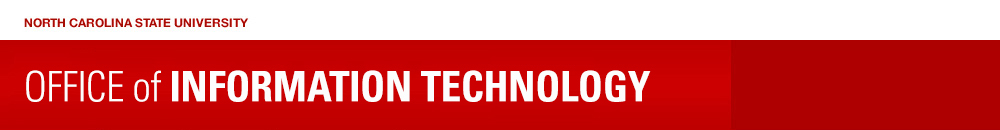
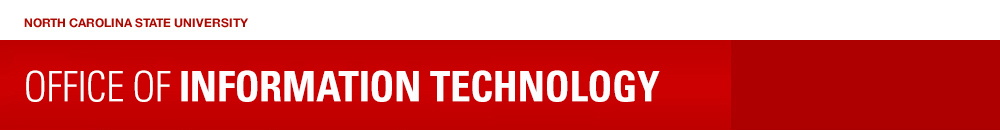
updated sidebar to new red blocks; changed footer link menu setup; sidebar fixes; header homepage link added; thats it for now, yo

Changed region(s): [[0.124, 0.5231, 0.682, 0.8]]

diff --git a/css/global.css b/css/global.css
@@ -100,34 +100,123 @@ div.audience #menu {background:#333; border-bottom:1px solid #fff;border-top:1px
 #subNav ul li a {color:#383838;}
 
 
-/* SIDEBAR */
-aside {display:inline;float:right;margin:0;padding:4px 4px 0 4px;width:250px; background-color:#e5e3d6; }
-aside#sidebar .widget {margin:0 0 4px; padding:0; background:#67849C;}
-aside#sidebar .widget .widgettitle {
-	display:block; padding:12px 4px 12px 20px; background:#556677;text-transform:uppercase; font-weight:bold; color:#fff;
-	background-image: url(../img/bullet_nav_active.gif);
-	background-position:10px 1.15em;
-	background-repeat:no-repeat no-repeat;}
+/* NEW SIDEBAR */
+aside {display:inline;float:right;margin:0;padding:4px 4px 0 4px;width:250px;  }
+aside#sidebar {
+  display:block;
+  float:right;
+  margin-top:38px;
+  overflow:hidden;
+  width:248px;
+  color:#000;
+}
+
+aside#sidebar a {color:#c00;}
+
+aside#sidebar .widgettitle {
+  background-color:#CC0000;
+  background-image:url(../img/sidebar_header_cut.png);
+  background-position:100% 100%;
+  background-repeat:no-repeat no-repeat;
+  color:#FFFFFF;
+  display:inline-block;
+  font-size:1.2em;
+  letter-spacing:1px;
+  padding:5px 40px 5px 21px;
+  text-transform:uppercase;
+  width:auto;
+}
+
+aside#sidebar .widget ul {
+  background-image:url(../img/sidebar-border.png);
+  background-position:0 50%;
+  background-repeat:no-repeat repeat;
+  border-top-color:#FF9897;
+  border-top-style:solid;
+  border-top-width:1px;
+  padding:20px 20px 0 2px;
+}
+
+aside#sidebar .widget {
+  background-image:url(../img/sidebar_border_bottom.png);
+  background-position:50% 100%;
+  background-repeat:no-repeat no-repeat;
+  padding-bottom:25px;
+  margin-bottom:25px;
+  color:#000;
+}
+
+/* TEXT WIDGET */
+
+aside#sidebar .widget_text h3 {
+  background-image:url(../img/sidebar_header-arrow.png);
+  background-position:0 10px;
+  background-repeat:no-repeat no-repeat;
+  font-size:1.2em;
+  
+}
+aside#sidebar .widget_text h3.widgettitle {padding-top:14px; letter-spacing:normal;font-weight:600;background-color:#fff;color:#333;text-transform:capitalize;}
+
+aside#sidebar .widget_text {
+  border:1px solid #FF9897;
+  background:none;
+}
+
+aside#sidebar .widget_text a {
+  color:#333333;
+  display:block;
+  text-decoration:none;
+}
+aside#sidebar .widget_text h3, aside#sidebar .textwidget {
+  font-size:1.2em;
+  padding:10px 20px;
+}
+
+aside#sidebar .widget_text img {
+  margin:0;
+  padding:-10px -20px;
+  height:143px;
+  width:246px;
+  border:solid 1px #FFFF33;
+}
 
 aside#sidebar li.widget {list-style-type:none;}
 aside#sidebar li.widget ul {line-height:1.3em;font-size:1.1em;margin:0;padding:8px 12px;}
-aside#sidebar li.widget ul li{margin:0 0 .5em; list-style:none;}
-aside#sidebar li.widget ul li a:link,div#middle aside#sidebar li.widget ul li a:visited{color:#fff;}
+aside#sidebar li.widget ul li {margin:0 0 .5em; list-style:none;}
+aside#sidebar li.widget ul li a:link, aside#sidebar li.widget ul li a:visited{color:#c00;}
 aside#sidebar li.widget ul li a:hover{text-decoration:underline;}
 
-aside#sidebar li.widget_search h3.widgettitle {display:none;}
+aside#sidebar li.widget_search .widgettitle {display:none;}
 
 div#home aside#sidebar {float:right; position:relative; top:282px;}
 
 
-/* SEARCH BAR */
+#sidebar-new::after {
+  clear:both;
+  content:'.';
+  display:block;
+  height:0;
+  visibility:hidden;
+}
+#sidebar .helpful-links-brite, #sidebar-new .image-text-brite, #sidebar-new .image-brite, #sidebar-new .text-brite, #sidebar-new .quickfacts-brite, #sidebar-new .image-brite-custom, #sidebar-new .wolfalert-brite {
+  margin-bottom:10px;
+}
+#sidebar-new .helpful-links-brite p, #sidebar-new .image-text-brite p, #sidebar-new .image-brite p, #sidebar-new .text-brite p, #sidebar-new .quickfacts-brite p, #sidebar-new .image-brite-custom p, #sidebar-new .wolfalert-brite p {
+  line-height:1.6em;
+}
+
+
+
+
+
+/* SEARCH BLOCKS */
 #headertop form#searchform {float:right;margin:0 0 10px 500px; height:90px; width:268px; padding:0 0 5px 0; background-color:#a20;}
 #headertop form#searchform div.search-box {width:236px; height:22px; margin: 13px 4px 0px 15px;padding:5px;}
 #headertop form#searchform input.search-query {width:195px;float:left;height:14px;padding:5px;border:none;background-color:#fff; font-size: 1.0em; font-family:Arial, Helvetica, sans-serif; color:#666;  }
 #headertop form#searchform input.search-button {margin-top:2px;padding:0;width:28px;float:left;background:url('../img/searchbtn.jpeg') no-repeat 0 0 transparent;border:0 none;cursor:pointer;float:right;height:22px;outline:medium none;text-indent:-9999px;}
 
-aside#sidebar form#searchform {background-color:#a20; padding:12px;}
-aside#sidebar form#searchform div input[type="text"] {width:170px; height:16px; padding:2px; }
+aside#sidebar form#searchform {padding:12px 8px 0px 16px; border-top:solid 1px #FF9897;border-right:solid 1px #FF9897;border-left:solid 1px #FF9897;}
+aside#sidebar form#searchform div input[type="text"] {width:166px; height:16px; padding:2px; }
 aside#sidebar form#searchform div input[type="submit"] {margin:0px 18px 0 0;padding:0;width:28px;float:right;background:url('../img/searchbtn.jpeg') no-repeat 0 0 transparent;border:0 none;cursor:pointer;height:23px;outline:medium none;text-indent:-9999px;}
 
 /* FOOTER */
@@ -136,8 +225,8 @@ footer {font-family:Arial, Helvetica, sans-serif; margin: 2px 0px; border-top:so
 footer div.footer_top_holder {background:#c00; border-top:solid 1px #fff; height:42px;line-height:38px; }
 
 footer ul li {display:inline;}
-footer ul li a {font-size:1.025em;color:#fff;}
-footer ul li:after {content:" | ";padding:0 5px;}
+footer ul li a {font-size:1.1em;color:#fff;}
+footer ul li:after {content:" | ";padding:0 6px;}
 footer ul li:last-child:after {content:none;}
 footer div.footer_top_holder ul a {color:#fff; text-decoration:none;}
 
@@ -157,11 +246,7 @@ h3{font-size:1.4em;padding:0 0 10px}
 h4{font-size:1.3em;padding:10px 0}
 h5{font-size:1.2em;padding:10px 0}
 h6{font-size:1.2em;padding:10px 0}
-#headertop h5{text-transform:uppercase;letter-spacing:.1em;font-family:"Arial", Helvetica, sans-serif;font-size:3.7em;font-weight:400;line-height:.81em;margin:0;padding-top:25px;float:left;}
-#two_col_horiz #headertop h5{border-bottom:0}
-/*.bg #headertop h5{margin-top:0;padding-top:15px}*/
-#headertop h5 a,#headertop h5 a:hover,#headertop h5 a:visited{text-decoration:none}
-.bg #headertop h5,.bg #headertop h5{border-bottom:none;border-top:none}
+
 
 /* TEXT ELEMENTS */
 
@@ -213,7 +298,8 @@ table{margin:5px 0}
 a.access {height:1px; left:-999px; position:absolute; top:auto; width:1px;}
 a.access:focus {background-color:#000000;color:#FFFFFF;height:auto;left:0;overflow:auto;padding:5px 2px;right:0;text-align:left;width:120px; z-index:1000;}
 #headertop .logo {bottom:0;height:118px;left:0;overflow:hidden;position:absolute;text-indent:-9000px;width:720px;z-index:95;}
-#headertop .logo a#ncsu-banner-link {display:block;float:left;height:118px;width:587px;}
+#headertop .logo a#ncsu-banner-link {display:block;float:left;height:28px;width:287px;}
+#headertop .logo a#homepage-banner-link {display:block;float:left;clear:both;height:90px;width:687px;}
 #headertop div.logo a#ncsu-125-link {display:block;float:left;height:118px;width:85px;}
 /* END BANNER STUFF ----------------------------------- */
 

diff --git a/style.css b/style.css
@@ -4,7 +4,7 @@ THEME URI:
 DESCRIPTION: NC State look-alike theme designed by OIT Design. Built off Sandbox Theme by Andy Skelton and Scott Allan Wallick.
 AUTHOR: Jen Riehle, NC State OIT Design
 AUTHOR URI: http://oitdesign.ncsu.edu
-Version: 0.1
+Version: 0.76
 License: GNU General Public License
 License URI: license.txt
 TAGS: two-column, three-column, NC State framework, widgets, white, gray, fixed-width, featured content
@@ -81,7 +81,7 @@ div#homepage_column_holder .widget .widgettitle {
 div#homepage_column_holder li.widget {list-style-type:none;}
 div#homepage_column_holder li.widget ul {line-height:1.3em;font-size:1.1em;margin-left:10px;padding:8px 12px;}
 div#homepage_column_holder li.widget ul li{margin:0 0 .5em;}
-div#homepage_column_holder li.widget ul li a:link,div#middle aside#sidebar li.widget ul li a:visited{color:#fff;}
+div#homepage_column_holder li.widget ul li a:link,div#middle aside#sidebar li.widget ul li a:visited{color:#900;}
 div#homepage_column_holder li.widget ul li a:hover{text-decoration:underline;}
 
 

diff --git a/footer.php b/footer.php
@@ -4,7 +4,21 @@
             <h6 class="screen-reader-text">Footer</h6>
             
             <div class="footer_top_holder">
-			<?php wp_nav_menu( array( 'theme_location' => 'footer' ) ); ?>
+			<?php //wp_nav_menu( array( 'theme_location' => 'footer' ) ); ?>
+           
+           <ul class="menu">
+                <li><a href="http://www.ncsu.edu/emergency-information/" target="NCSU Emergency Info">Emergency Information</a></li>
+                <li><a href="http://www.ncsu.edu/privacy/" target="NCSU Privacy">Privacy</a></li>
+                <li><a href="http://www.ncsu.edu/copyright/" target="NCSU Copyright">Copyright</a></li>
+                <li><a href="http://oit.ncsu.edu/itaccess/legislation-and-policies" target="OIT">Accessibility</a></li>
+                <li><a href="http://oied.ncsu.edu/oied/" target="OIED">Diversity</a></li>
+                <li><a href="http://policies.ncsu.edu/" target="University Policies">University Policies</a></li>
+                <li><a href="http://www.ncsu.edu/about-site/" target="About NCSU website">About the Site</a></li>
+                <li><a href="https://jobs.ncsu.edu/" target="NC State Jobs">Jobs</a></li>
+                <li><a href="http://www.ncsu.edu/contact-us/" target="Contact NC State">Contact NC State</a></li>
+               
+            </ul>
+           
            
             </div><!-- footter_top_holder -->
             

diff --git a/sidebar.php b/sidebar.php
@@ -1,20 +1,30 @@
 	
     <?php //get_search_form(); ?>
+    
+    <?php 
+	if ( has_post_thumbnail() ) { ?> <nav id="nav" style="padding-bottom:280px;" role="navigation"> <?php ;} 
+	else {
+	?>
     <nav id="nav" role="navigation">
-     
+    <?php } ?>
             
        <!-- <ul class="left-nav-block"><div class="primaryNav"> -->
-        <div class="primaryNav">
-        <ul id="menu">
-		<?php wp_nav_menu( array('theme_location' => 'primary' ) ); ?>
-        </ul>
+       
+       <?php if ( has_nav_menu( 'primary' ) ) : ?>
+       	<div class="primaryNav">
+        	<ul id="menu">
+				<?php wp_nav_menu( array('theme_location' => 'primary' ) ); ?>
+             </ul>
         </div>
+        <?php endif; ?>
         
         <!-- <ul class="left-nav-block"><div class="audience"> -->
-        <div class="audience">
-        <ul id="menu">
-		<?php wp_nav_menu( array( 'theme_location' => 'secondary' ) ); ?>
-        </ul>
+        <?php if ( has_nav_menu( 'secondary' ) ) : ?>
+       	<div class="audience">
+        	<ul id="menu">
+				<?php wp_nav_menu( array('theme_location' => 'secondary' ) ); ?>
+             </ul>
         </div>
+        <?php endif; ?>
         
 	</nav><!-- end nav -->

diff --git a/header-twoCol.php b/header-twoCol.php
@@ -54,6 +54,7 @@ Javascript is disabled. The styling of this page may not render properly in cert
      <div class="logo" role="banner" aria-labelledby="ncsu-banner-link">
         <a href="http://www.ncsu.edu/" id="ncsu-banner-link" title="Return to the North Carolina State University home page">North Carolina State University</a>
         <!--<a href="http://125.ncsu.edu" id="ncsu-125-link" title="NC State celebrates 125 years.">125 Years</a>-->
+        <a href="<?php bloginfo('home'); ?>" id="homepage-banner-link" title="Return to home page"><?php bloginfo('name'); ?></a>
     </div>
     
         <ul id="topnav" role="navigation" aria-label="Universal ncsu.edu navigation toolbar">

diff --git a/header.php b/header.php
@@ -55,6 +55,7 @@ Javascript is disabled. The styling of this page may not render properly in cert
      <div class="logo" role="banner" aria-labelledby="ncsu-banner-link">
         <a href="http://www.ncsu.edu/" id="ncsu-banner-link" title="Return to the North Carolina State University home page">North Carolina State University</a>
         <!--<a href="http://125.ncsu.edu" id="ncsu-125-link" title="NC State celebrates 125 years.">125 Years</a>-->
+        <a href="<?php bloginfo('home'); ?>" id="homepage-banner-link" title="Return to home page"><?php bloginfo('name'); ?></a>
     </div>
     
         <ul id="topnav" role="navigation" aria-label="Universal ncsu.edu navigation toolbar">

diff --git a/functions.php b/functions.php
@@ -50,7 +50,7 @@ function addMyMenus() {
 			array(
 			  'primary' => 'Primary Navigation',
 			  'secondary' => 'Secondary Navigation',
-			  'footer' => 'Footer Navigation'
+			  //'footer' => 'Footer Navigation'
 			)
 		);
 	}
